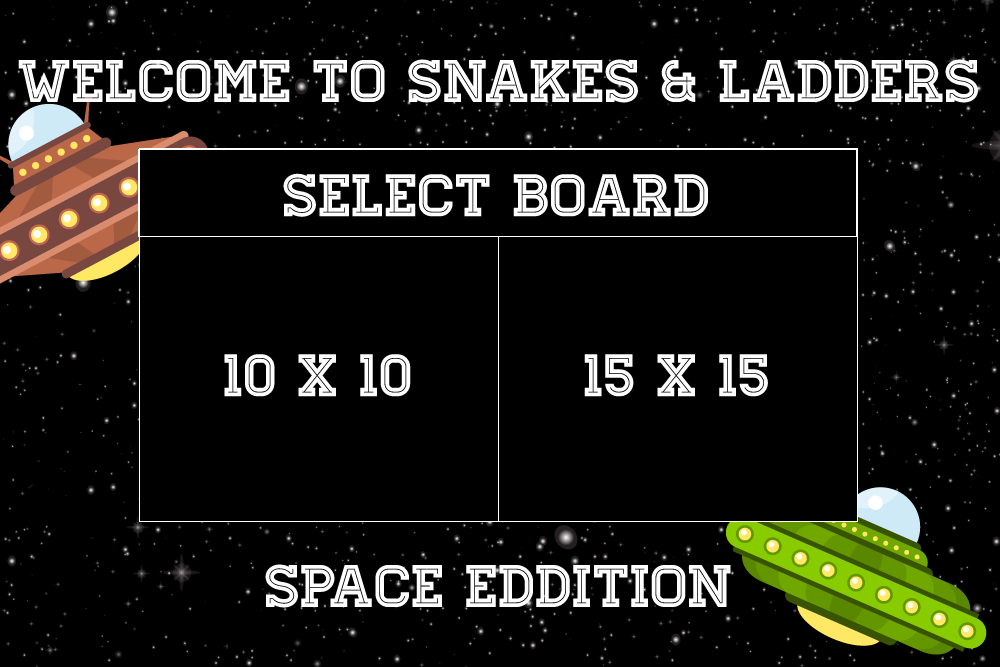
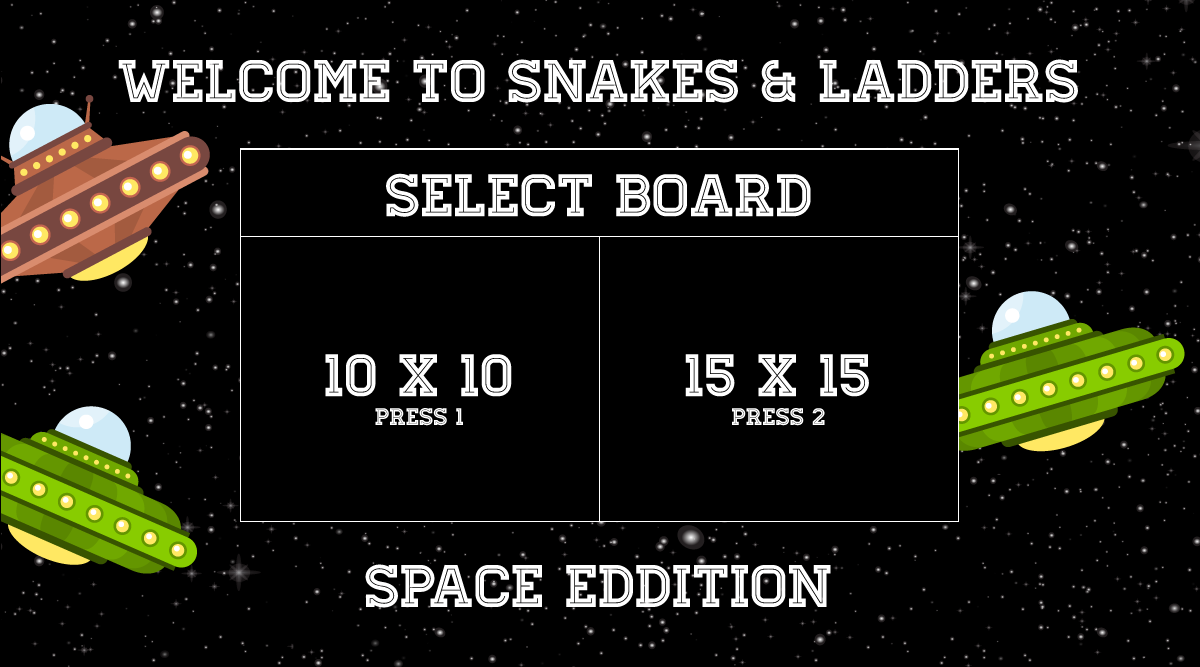
Updated screen sizes
Updated dimensions for background images to 1200x667

diff --git a/Code/snakesLaddersNEW.py b/Code/snakesLaddersNEW.py
@@ -50,6 +50,11 @@ def game(size=10):
         mixer.music.play()
         mixer.music.set_volume(0.7)
 
+
+    def is_empty(lst): return len(lst)==0
+    def enQueue(lst,data): return lst.append(data)
+    def front(lst): return lst[0]
+    def deQueue(lst): return lst.pop(0)
     #----------Loading all the possible dice roll images------------#
     one = pygame.image.load('dice1.png')
     two = pygame.image.load('dice2.png')
@@ -58,28 +63,22 @@ def game(size=10):
     five = pygame.image.load('dice5.png')
     six = pygame.image.load('dice6.png')
 
-    snake_txt = [
-    "A python bit you..",
-    "Oops, you were bitten by a  deadly snake", "Dang it, another snake bite?",
-    "oh no, Snake bite", "A deadly snake tried to devour you"
-    "whoops", "darn",
-    "snake bite", "oops", "tough luck"]
+    snakeMsg = [
+    "Oh no!",
+    "You've been sucked into a BLACK HOLE!!", "You'll have to start from further back",
+    "Be carefull.", "Black holes have a very strong gravatational force, try to steer clear of them!"]
 
     #indicates a ladder climb!
-    ladder_txt = [
-    "This laddder will bring you closer to victory",
-    "woww, reach for the stars",
+    ladderMsg = [
+    "Congradulations!",
+    "You have entered a wormhole!",
     "nailed it, Go Go Go",
-    "Congratulation, the ladder has jumped you forward ",
-    "level up! (not really)", "you got it",
-    "ladder aqquired", "yaayyy!!"]
-
-    def is_empty(lst): return len(lst)==0
-    def enQueue(lst,data): return lst.append(data)
-    def front(lst): return lst[0]
-    def deQueue(lst): return lst.pop(0)
+    "Congratulation, this portal has transported you forward!",
+    "The Force is with you, young one."]
 
 
+# is board size == 10
+# -------------------------------------------------------------------------------------------------------------------------------
     numbers=[] #--------This list stores numbers from 1 to 100.--------------#
     #------------Storing all numbers from 1 to 101 in a list------------------#
     for i in range(1,101): numbers.append(i)
@@ -92,9 +91,9 @@ def game(size=10):
     #----------Storing The loaction of snakes in a dictionary---------------------#
     #----------snake heads are keys and snake tails are values--------------------#
     snakes = {
-    99: 78,
+    99: 41,
     95: 75,
-    93: 73,
+    93: 80,
     87: 24,
     17: 7,
     62: 19,
@@ -140,7 +139,11 @@ def game(size=10):
 
     def num_location(x,y):
         return nums[(x,y)]
+# -------------------------------------------------------------------------------------------------------------------------------
+# if size board == 15
 
+# -------------------------------------------------------------------------------------------------------------------------------
+# -------------------------------------------------------------------------------------------------------------------------------
     #-----------Keeping a track of those locations where player has to move in reverse-------------------#
 
     #----------Check if the player won or not----------#
@@ -217,8 +220,8 @@ def game(size=10):
     def show_snake_txt():
         x=500
         y=50
-        msg = deQueue(snake_txt)
-        enQueue(snake_txt,msg)
+        msg = deQueue(snakeMsg)
+        enQueue(snakeMsg,msg)
         font = pygame.font.Font('freesansbold.ttf', 32)
         text = font.render(msg, False,(255, 255, 255) )
         textRect = text.get_rect()
@@ -228,8 +231,8 @@ def game(size=10):
     def show_ladder_txt():
         x=500
         y=50
-        msg = deQueue(ladder_txt)
-        enQueue(ladder_txt,msg)
+        msg = deQueue(ladderMsg)
+        enQueue(ladderMsg,msg)
         font = pygame.font.Font('freesansbold.ttf', 32)
         text = font.render(msg, False,(255, 255, 255) )
         textRect = text.get_rect()
